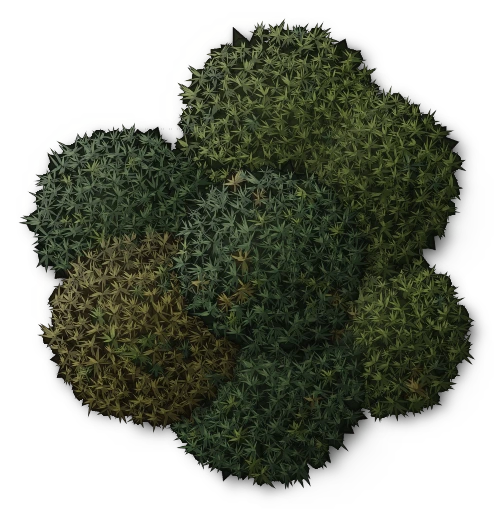
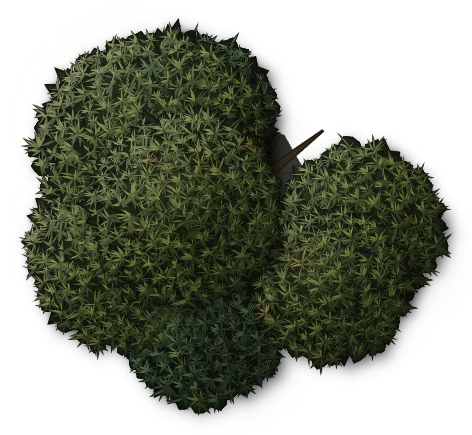
forest canopies have lobed, uneven outlines

diff --git a/src/procedural/pesados/plantas.ts b/src/procedural/pesados/plantas.ts
@@ -126,19 +126,27 @@ function copaDeRaminhos(diametro: number, seed: number, { ralo = 0.2, tons = OLI
   // Galhos: do tronco para fora, com bifurcações; ficam sob os cachos e aparecem nos vãos.
   const galhos = 5 + Math.floor(r() * 3);
   for (let i = 0; i < galhos; i++) {
-    const a = (i / galhos) * Math.PI * 2 + r() * 0.6, len = R * (0.62 + r() * 0.25), mx = Math.cos(a) * len * 0.5 + (r() - 0.5) * R * 0.12, my = Math.sin(a) * len * 0.5 + (r() - 0.5) * R * 0.12;
+    const a = (i / galhos) * Math.PI * 2 + r() * 0.6, len = R * (0.45 + r() * 0.15), mx = Math.cos(a) * len * 0.5 + (r() - 0.5) * R * 0.12, my = Math.sin(a) * len * 0.5 + (r() - 0.5) * R * 0.12;
     partes.push(tira([0, 0, mx, my, Math.cos(a) * len, Math.sin(a) * len], R * 0.05, '#3b2e22', 1.4, { contorno: 'leve', semSombra: true, detalhe: 1 }, 0.25));
     for (const lado of [-1, 1]) if (r() < 0.75) { const b = a + lado * (0.45 + r() * 0.35), l2 = len * (0.35 + r() * 0.2); partes.push(tira([mx, my, mx + Math.cos(b) * l2, my + Math.sin(b) * l2], R * 0.025, '#45362a', 1.42, { contorno: 'leve', semSombra: true, detalhe: 2 }, 0.2)); }
   }
   partes.push(elipse(0, 0, R * 0.16, R * 0.16, '#33271d', 1.45, { contorno: 'leve', semSombra: true, detalhe: 1 }));
   // Sombra interna: o miolo da copa é escuro (nos vãos do meio não se vê o chão, e sim a sombra da própria copa).
-  partes.push(poli(bolha(0, 0, R * 0.6 * (1 - ralo * 0.45), R * 0.6 * (1 - ralo * 0.45), 18, 0.18, r), '#0d120a', 1.3, { contorno: false, semSombra: true, suave: true, alfa: 0.85, detalhe: 1 }));
+  partes.push(poli(bolha(0, 0, R * 0.42 * (1 - ralo * 0.45), R * 0.42 * (1 - ralo * 0.45), 18, 0.18, r), '#0d120a', 1.3, { contorno: false, semSombra: true, suave: true, alfa: 0.85, detalhe: 1 }));
   // Massas de folhagem: uma no miolo e um anel de 4 a 8 em volta, com raios sorteados (o contorno sai em lóbulos). Cada massa é uma cúpula
   // de cachos com o próprio lado da luz e o próprio lado da sombra, e projeta sombra sobre as de baixo: é isso que dá volume à copa.
-  const nAnel = Math.max(4, Math.min(8, Math.round(2 + R * 1.1))), massas: { x: number; y: number; r: number; z: number }[] = [];
-  const giro = r() * Math.PI * 2;
-  for (let i = 0; i < nAnel; i++) { const a = giro + (i / nAnel) * Math.PI * 2 + (r() - 0.5) * 0.5, rm = R * (0.36 + r() * 0.16), d = R - rm * (0.95 + r() * 0.1); massas.push({ x: Math.cos(a) * d, y: Math.sin(a) * d, r: rm, z: 2 + r() * 0.3 }); }
-  massas.push({ x: (r() - 0.5) * R * 0.2, y: (r() - 0.5) * R * 0.2, r: R * (0.42 + r() * 0.1), z: 2.6 });
+  // Copa de contorno irregular: massas de tamanhos bem diferentes, uma ou duas falhas no anel (reentrâncias), uma massa grande puxada para
+  // fora num lado e o miolo deslocado. Nada passa da pegada: cada massa fica a pelo menos o próprio raio da borda.
+  const nAnel = Math.max(4, Math.min(9, Math.round(3 + R * 1.2))), massas: { x: number; y: number; r: number; z: number }[] = [];
+  const giro = r() * Math.PI * 2, falhas = new Set<number>(), forte = Math.floor(r() * nAnel);
+  for (let f = 0; f < (R > 2.5 ? 1 : 0); f++) { const i = Math.floor(r() * nAnel); if (i !== forte) falhas.add(i); }
+  for (let i = 0; i < nAnel; i++) {
+    if (falhas.has(i)) continue;
+    const a = giro + (i / nAnel) * Math.PI * 2 + (r() - 0.5) * 0.6, rm = R * (i === forte ? 0.5 + r() * 0.06 : 0.32 + r() * 0.16), d = Math.min(R - rm, (R - rm) * (0.62 + r() * 0.38));
+    massas.push({ x: Math.cos(a) * d, y: Math.sin(a) * d, r: rm, z: 2 + r() * 0.3 });
+  }
+  const am = giro + (forte / nAnel) * Math.PI * 2;
+  massas.push({ x: Math.cos(am) * R * 0.18 + (r() - 0.5) * R * 0.15, y: Math.sin(am) * R * 0.18 + (r() - 0.5) * R * 0.15, r: R * (0.4 + r() * 0.12), z: 2.6 });
   const miudo = 0.24, variantes = [tons, tons, tons, tons, tons, AMARELADO, FRIO];
   for (const m of massas.sort((a, b) => a.z - b.z)) {
     const ladoDaMassa = (m.x * LUZ_X + m.y * LUZ_Y) / R, tonsDaMassa = r() < 0.18 ? variantes[5 + Math.floor(r() * 2)]! : tons;
@@ -273,7 +281,7 @@ export const PLANTAS: GeradorPesado[] = [
     gerar: p => arbustoSeco(num(p.params.diametro, 1.5, 0.8, 4), p.seed, p.params.neve === true) },
   { id: 'carvalho-grande', altura: ([w]) => w * 1.6, nome: 'Carvalho grande', categoria: 'exterior', funcoes: ['jardim'], tags: ['arvore', 'carvalho', 'planta', 'copa', 'exterior', 'mata'], generos: [], kit: 'mata', versao: 2, res: 64,
     variantes: [{ nome: '6 m', sufixo: '6m', params: { diametro: 6 }, seed: 91 }, { nome: '7 m', sufixo: '7m', params: { diametro: 7 }, seed: 92 }, { nome: '8 m', sufixo: '8m', params: { diametro: 8 }, seed: 93 }], gerar: p => carvalhoGrande(num(p.params.diametro, 7, 5, 10), p.seed) },
-  { id: 'arvore-da-mata', altura: ([w]) => w * 1.7, nome: 'Árvore da mata', categoria: 'exterior', funcoes: ['jardim'], tags: ['arvore', 'planta', 'copa', 'exterior', 'mata', 'floresta'], generos: [], kit: 'mata', versao: 2, res: 64,
+  { id: 'arvore-da-mata', altura: ([w]) => w * 1.7, nome: 'Árvore da mata', categoria: 'exterior', funcoes: ['jardim'], tags: ['arvore', 'planta', 'copa', 'exterior', 'mata', 'floresta'], generos: [], kit: 'mata', versao: 3, res: 64,
     variantes: [{ nome: '4 m', sufixo: '4m', params: { diametro: 4 }, seed: 111 }, { nome: '6 m', sufixo: '6m', params: { diametro: 6 }, seed: 112 }, { nome: '8 m', sufixo: '8m', params: { diametro: 8 }, seed: 113 }, { nome: '6 m, ralinha', sufixo: '6m-rala', params: { diametro: 6, ralo: 0.7 }, seed: 114 }, { nome: '5 m, amarelada', sufixo: '5m-amarelada', params: { diametro: 5, tons: 'amarelado' }, seed: 115 }],
     gerar: p => copaDeRaminhos(num(p.params.diametro, 6, 2, 12), p.seed, { ralo: num(p.params.ralo, 0.2, 0, 1), tons: p.params.tons === 'amarelado' ? AMARELADO : p.params.tons === 'frio' ? FRIO : OLIVA }) },
   { id: 'folhagem-tropical', altura: ([w]) => w * 0.5, nome: 'Folhagem tropical', categoria: 'exterior', funcoes: ['jardim'], tags: ['arbusto', 'planta', 'folhagem', 'tropical', 'exterior', 'mata'], generos: [], kit: 'mata', versao: 1, res: 64,
